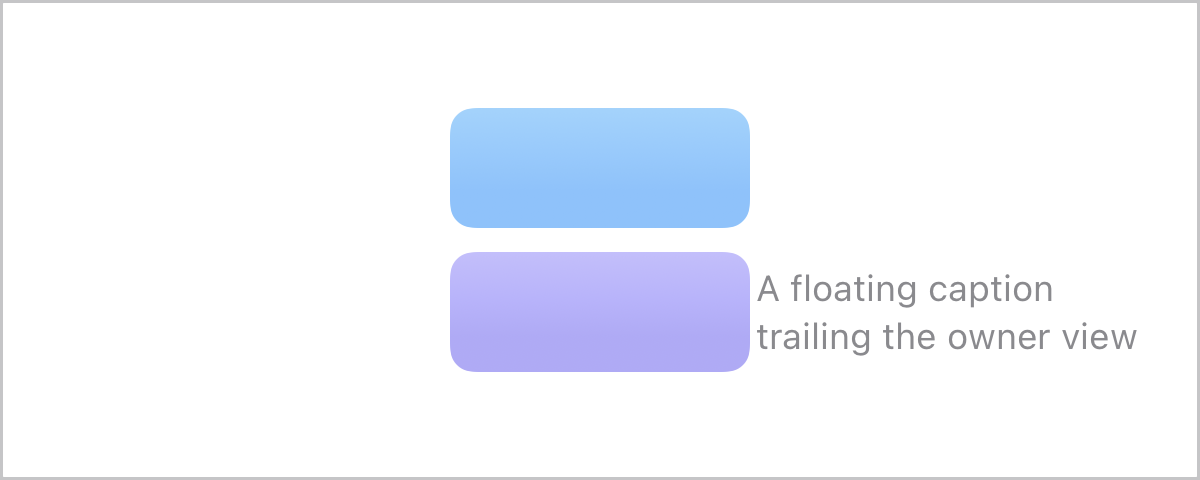
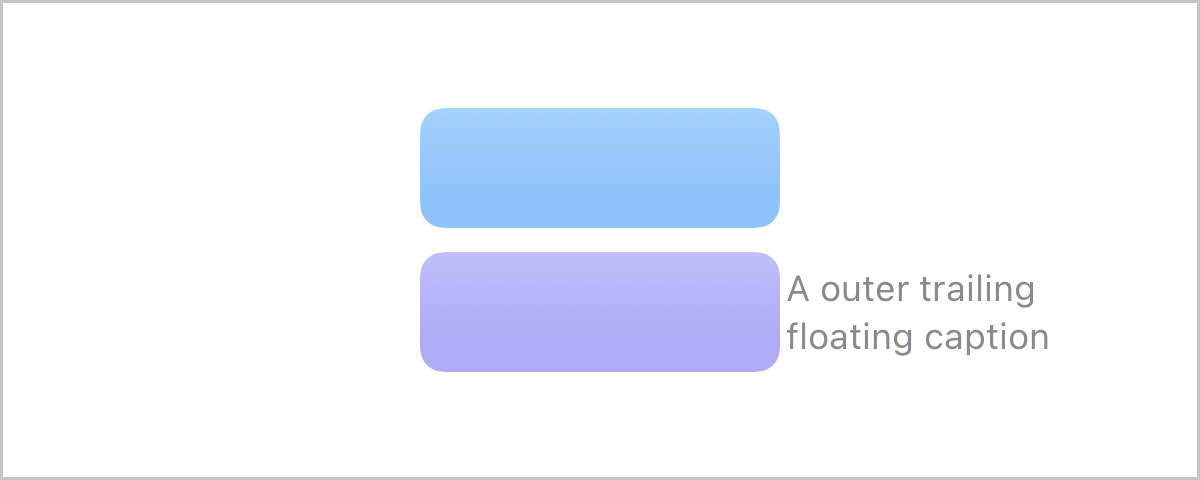
adjust caption in illustration

Changed region(s): [[0.6167, 0.2188, 0.9558, 0.7812], [0.3392, 0.2188, 0.4008, 0.7812]]

diff --git a/illustrations/IllustrationsForFloatingCaption.swift b/illustrations/IllustrationsForFloatingCaption.swift
@@ -32,12 +32,12 @@ struct IllustrationsForFloatingCaption {
                 VStack {
                     RoundedRectangle(cornerRadius: 8)
                         .fill(.blue.gradient.secondary)
-                        .frame(width: 100, height: 40)
+                        .frame(width: 120, height: 40)
                     RoundedRectangle(cornerRadius: 8)
                         .fill(.indigo.gradient.secondary)
-                        .frame(width: 100, height: 40)
+                        .frame(width: 120, height: 40)
                         .floatingCaption(
-                            "A floating caption\ntrailing the owner view",
+                            "A outer trailing\nfloating caption",
                             alignment: .outerTrailing
                         )
                 }
